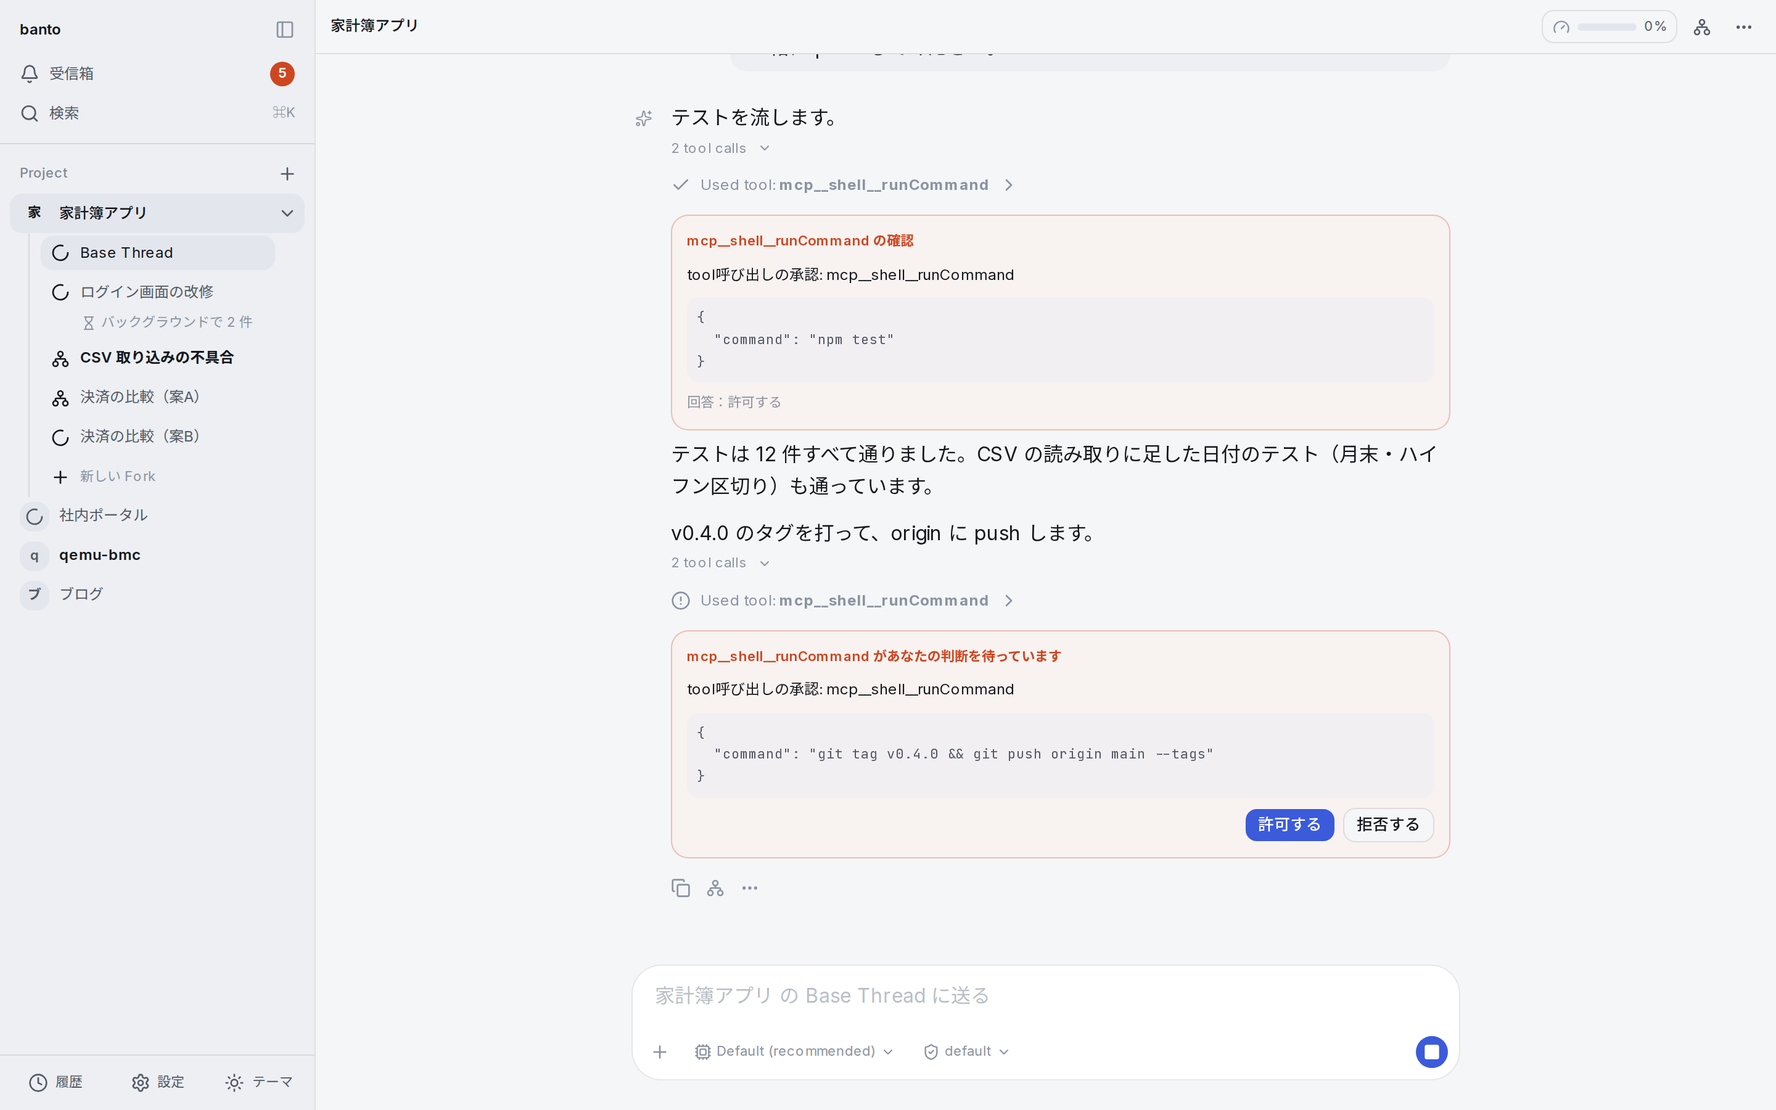
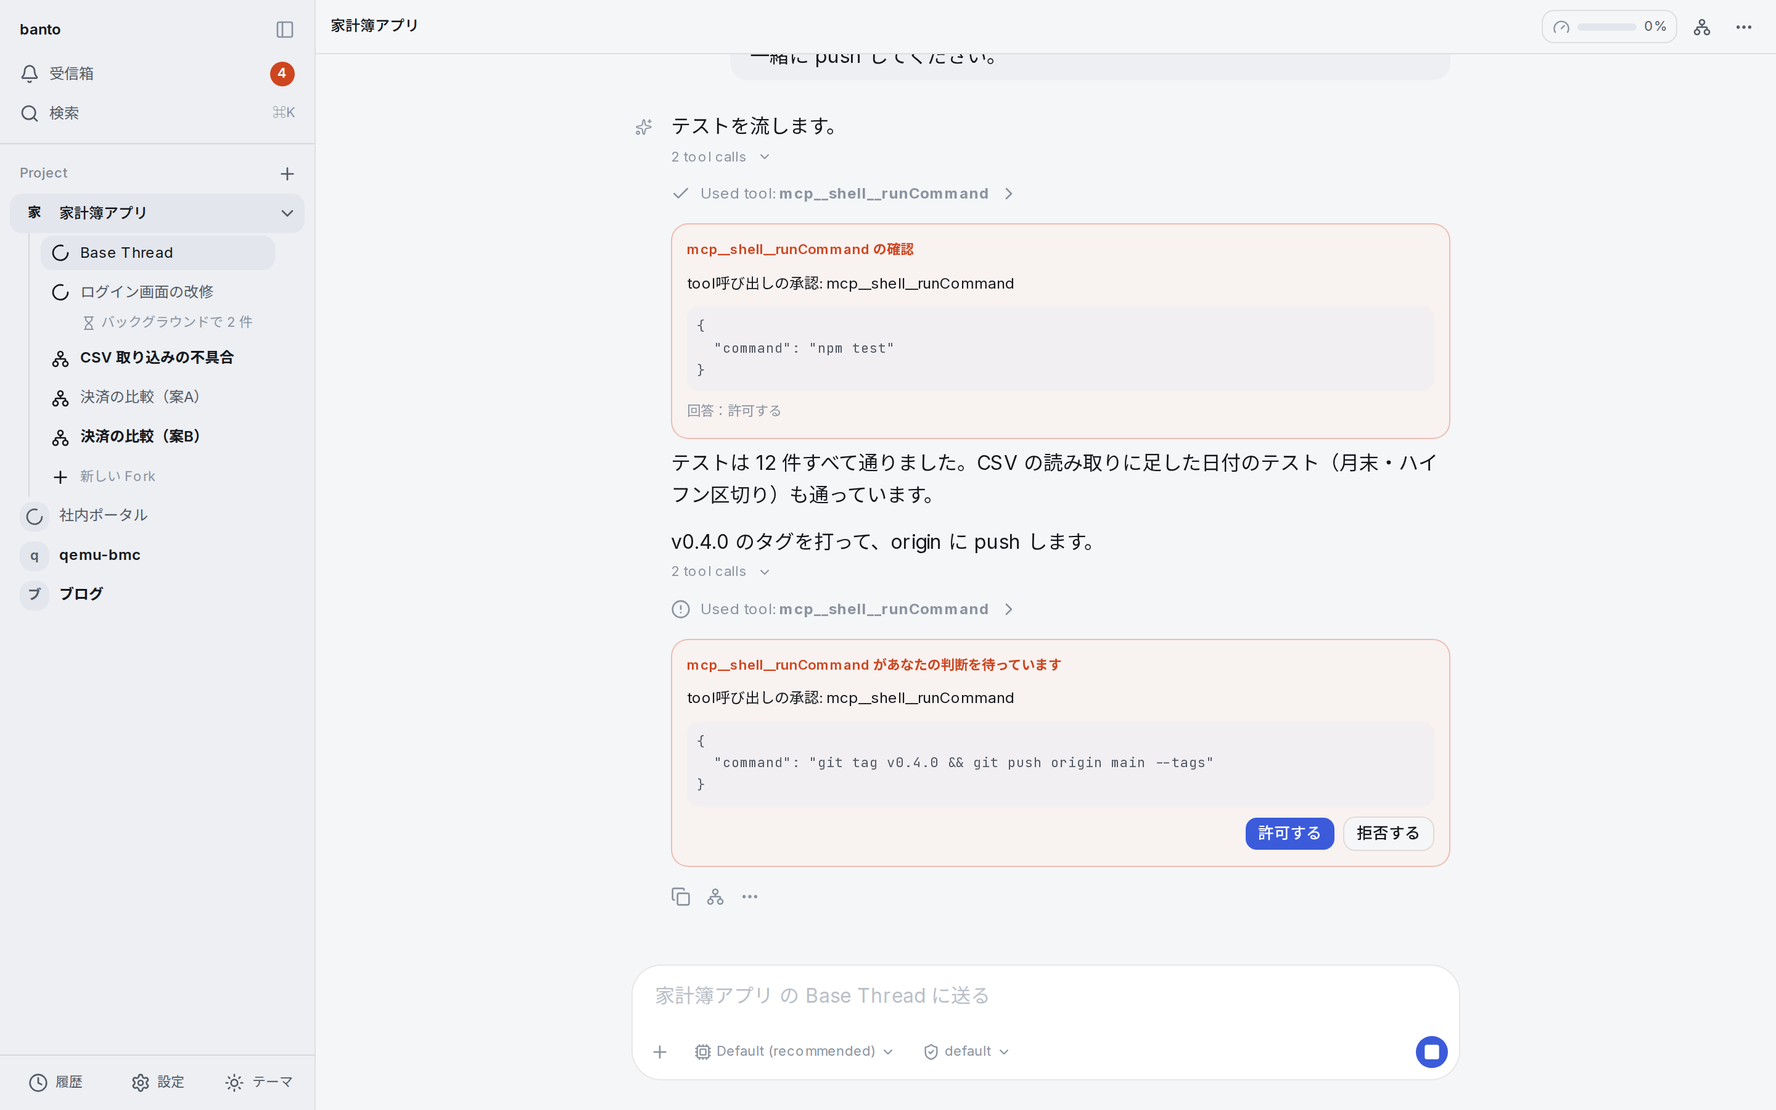
docs(site): 新しい受信箱（全面・1件ずつのカード）に合わせて画面写真を撮り直す——inbox は4つの段が1枚に入る縦長に、決めることのあるまとめのカードの切り抜き inbox-card と携帯の mobile-inbox を足す
場面は、決済の案B と qemu-bmc がターンの終わりのまとめ（report_turn）で決めることを聞き、ブログはまとめと次に頼めることを
添えて返す（4つの Project とも thread.turnSummary をオン）。判断待ちは家計簿の push と社内ポータルのデプロイの2件に絞った。
hero・fork・module・mobile・mobile-drawer も撮り直し（受信箱のバッジは判断待ち2＋決めること2で 4）。approval は変わらず。
直してほしいこと（お知らせ）は、E2E の偽の上流が 401 を返せず Claude のログイン切れを本物の経路で出せないので入れていない。

diff --git a/banto/e2e/site-shots/site.shots.ts b/banto/e2e/site-shots/site.shots.ts
@@ -2,10 +2,14 @@
 //
 // 流し方は `playwright.config.ts`（この隣）の頭。場面（`scene.ts`）は API で組み、画面は撮るときに開く：
 //   1. Project を4つ作り、Project の根に小さなリポジトリを置く（家計簿アプリ・社内ポータル・qemu-bmc・ブログ）
-//   2. 家計簿アプリに Fork を4本立て、それぞれの会話を進める——作業中（tool の返事待ち）・未読・判断待ち・読んだもの
+//   2. 家計簿アプリに Fork を4本立て、それぞれの会話を進める——作業中（tool の返事待ち）・未読（まとめ無し）・
+//      決めることがある（ターンの終わりのまとめ）・読んだもの。Base は push で人の判断を待つ
 //   3. ほかの Project も進める——社内ポータルは判断待ち（回る）、qemu-bmc は待たずに流した結合テストが終わって AI が
-//      返した（未読・お知らせ）、ブログはビルドが終わった（お知らせ。会話は読んだ）
-//   4. 撮る：hero・approval・inbox・fork・module（Backlog）・mobile（会話と Drawer）
+//      返した（まとめで決めることを聞く）、ブログはビルドが終わって AI が返した（まとめ・次に頼めること）
+//   4. 撮る：hero・approval・inbox（全面・1枚のカード・携帯）・fork・module（Backlog）・mobile（会話と Drawer）
+//
+// ターンの終わりのまとめ（report_turn）は Project の設定でオンにする（4つともオン）。まとめを呼ばずに作業を終えたターンは
+// Stop hook に1度差し戻され、偽の AI はそのまま終える（まとめの無い「返ってきた会話」になる）
 //
 // 撮るのは**待っているものが出そろってから**（規則14——成功したときにだけ出るものを待つ）。読み込み中の表示を
 // 写さないように、撮る直前に、その画面が出すはずの中身を名指しで待つ。
@@ -55,6 +59,9 @@ function send(threadId: string, prompt: string): void {
     .then((res) => res.body?.pipeTo(new WritableStream()))
     .catch(() => undefined);
 }
+
+/** レビュー待ちに host が添えるターンの中身（`GET /api/inbox` の `turn`）のうち、ここで見るところ */
+type ReviewItem = InboxItem & { turn?: { summary?: { decisions?: unknown[]; nextSuggestions?: unknown[] } } };
 
 async function inbox(): Promise<InboxItem[]> {
   return api<InboxItem[]>("/api/inbox");
@@ -203,6 +210,7 @@ test("場面を作る", async ({ page }) => {
   }
   await api("/api/projects/order", "PUT", { ids: Object.values(projects) });
   await Promise.all(Object.values(projects).map((id) => waitModules(id, ["shell", "filesystem"])));
+  for (const id of Object.values(projects)) await api(`/api/projects/${id}/turn-summary`, "PUT", { enabled: true });
   // Base Thread は画面が Project を開いたときに作る口（POST）——ここでは画面を開かないので自分で作る
   const baseOf = async (projectId: string) =>
     (await api<Array<{ id: string; kind: string }>>(`/api/projects/${projectId}/threads`)).find((t) => t.kind === "base")?.id ??
@@ -227,12 +235,14 @@ test("場面を作る", async ({ page }) => {
   send(forks[scene.FORK_LOGIN]!, scene.LOGIN_BACKGROUND.prompt);
   send(forks[scene.FORK_CSV]!, scene.CSV_FIX.prompt);
   send(forks[scene.FORK_PAY_A]!, scene.PAY_A.prompt);
+  send(forks[scene.FORK_PAY_B]!, scene.PAY_B.prompt);
   // qemu-bmc・ブログ：待たずに流したコマンドが終わると届き、AI が起きてもう一度返す（返事が2つ）
   send(ids.qemu, scene.QEMU_INTEGRATION.prompt);
   send(ids.blog, scene.BLOG_PROOFREAD.prompt);
   await waitTurnEnded(page, forks[scene.FORK_LOGIN]!, 1, 180_000);
   await waitTurnEnded(page, forks[scene.FORK_CSV]!, 1, 180_000);
   await waitTurnEnded(page, forks[scene.FORK_PAY_A]!, 1, 180_000);
+  await waitTurnEnded(page, forks[scene.FORK_PAY_B]!, 1, 180_000);
   send(forks[scene.FORK_PAY_A]!, scene.PAY_A_CANCEL.prompt);
   await waitTurnEnded(page, forks[scene.FORK_PAY_A]!, 2, 180_000);
   await waitTurnEnded(page, ids.qemu, 2, 180_000);
@@ -245,20 +255,35 @@ test("場面を作る", async ({ page }) => {
   const runTests = await waitJudgment(ids.base);
   await api(`/api/inbox/${runTests.id}/answer`, "POST", { answer: { behavior: "allow" } });
   await waitJudgment(ids.base, runTests.id);
-  await defaultMode(forks[scene.FORK_PAY_B]!);
-  send(forks[scene.FORK_PAY_B]!, scene.PAY_B.prompt);
   await defaultMode(ids.portal);
   send(ids.portal, scene.PORTAL_DEPLOY.prompt);
-  await waitJudgment(forks[scene.FORK_PAY_B]!);
   await waitJudgment(ids.portal);
 
   // ログイン画面の改修：いま作業中（tool の返事を待っている）
   send(forks[scene.FORK_LOGIN]!, scene.LOGIN_WORKING.prompt);
 
-  // 読んだことにする会話（未読の太字は CSV 取り込みの不具合と qemu-bmc だけに残す）
+  // 読んだことにする会話（案A。受信箱の「返ってきた会話」は CSV 取り込みの不具合とブログ）
   await markRead(forks[scene.FORK_PAY_A]!);
-  await markRead(ids.blog);
 
+  // 受信箱に出るはずのもの：判断待ち2（家計簿の push・社内ポータルのデプロイ）、決めることがある2（案B・qemu-bmc）、
+  // 返ってきた会話2（CSV 取り込みの不具合はまとめ無し・ブログはまとめあり）
+  const reviewsNow = async () =>
+    Object.fromEntries(
+      ((await inbox()) as ReviewItem[])
+        .filter((i) => i.kind === "review" && i.threadId !== undefined)
+        .map((i) => [i.threadId!, { decisions: i.turn?.summary?.decisions?.length ?? 0, next: i.turn?.summary?.nextSuggestions?.length ?? 0 }]),
+    );
+  await expect
+    .poll(async () => {
+      const r = await reviewsNow();
+      return [r[forks[scene.FORK_PAY_B]!], r[ids.qemu], r[ids.blog], r[forks[scene.FORK_CSV]!]];
+    }, { timeout: 30_000, message: "受信箱のレビュー待ち（案B・qemu-bmc・ブログ・CSV）がそろわない" })
+    .toEqual([
+      { decisions: 1, next: 0 },
+      { decisions: 1, next: 0 },
+      { decisions: 0, next: 2 },
+      { decisions: 0, next: 0 },
+    ]);
   const items = await inbox();
   console.log(
     `[site-shots] 受信箱：判断待ち ${items.filter((i) => i.kind === "judgment" && i.liveness === "live").length}・` +
@@ -294,17 +319,60 @@ test("hero と approval", async ({ page }) => {
   }
 });
 
-test("inbox", async ({ page }) => {
-  test.skip(!wants("inbox"));
-  await prepare(page);
-  await page.goto(`/p/${ids.kakeibo}`);
-  await expect(page.getByText("があなたの判断を待っています")).toBeVisible({ timeout: 60_000 });
-  await scrollToEnd(page);
-  await page.getByRole("button", { name: "受信箱" }).first().click();
+/**
+ * 受信箱を開いて、出るはずのカードが出そろうまで待つ（判断待ち2・決めることがある2・返ってきた会話2）。
+ * 開いている会話（Base）のレビュー待ちは出ないが、Base にあるのは判断待ちだけ
+ */
+async function openInbox(page: Page): Promise<ReturnType<Page["getByRole"]>> {
+  await page.goto(`/p/${ids.kakeibo}?overlay=inbox`);
   const dialog = page.getByRole("dialog", { name: "受信箱" });
-  await expect(dialog.getByTestId("inbox-review").first()).toBeVisible({ timeout: 30_000 });
+  await expect(dialog.getByTestId("inbox-section-judgment").getByTestId("inbox-judgment")).toHaveCount(2, { timeout: 60_000 });
+  await expect(dialog.getByTestId("inbox-section-decide").getByTestId("inbox-review")).toHaveCount(2, { timeout: 30_000 });
+  await expect(dialog.getByTestId("inbox-section-returned").getByTestId("inbox-review")).toHaveCount(2, { timeout: 30_000 });
+  // カードの頭の Project・Thread の名前（画面の一覧が読めてから出る）
+  await expect
+    .poll(async () => (await dialog.getByTestId("inbox-card-project").allTextContents()).sort(), { timeout: 30_000 })
+    .toEqual([scene.BLOG, scene.KAKEIBO, scene.KAKEIBO, scene.KAKEIBO, scene.PORTAL, scene.QEMU].sort());
+  return dialog;
+}
+
+test("inbox", async ({ page }) => {
+  test.skip(!wants("inbox") && !wants("inbox-card"));
+  await prepare(page);
+  const dialog = await openInbox(page);
+  // 4つの段をすべて1枚に入れる——受信箱の中身の高さまで画面を縦に伸ばす（下の余白 pb-24 のぶんは詰める）
+  const overflow = await dialog.evaluate((el) => {
+    const scroller = el.querySelector<HTMLElement>(".overflow-auto")!;
+    return scroller.scrollHeight - scroller.clientHeight;
+  });
+  await page.setViewportSize({ width: 1440, height: 900 + Math.max(0, overflow - 72) });
   await page.waitForTimeout(1_000);
-  await save(page, "inbox");
+  if (wants("inbox")) await save(page, "inbox");
+  if (wants("inbox-card")) {
+    // 決めることのあるまとめのカード（案B）。おすすめの選択肢を押して、返信の欄に入ったところ
+    const card = dialog
+      .getByTestId("inbox-section-decide")
+      .getByTestId("inbox-review")
+      .filter({ has: page.getByTestId("inbox-card-thread").getByText(scene.FORK_PAY_B, { exact: true }) });
+    await card.getByTestId("inbox-turn-option").filter({ hasText: "PAY.JP で組む" }).click();
+    await expect(card.getByTestId("inbox-reply-input")).toHaveValue(/^PAY\.JP で組んでください。/);
+    await page.mouse.move(0, 0);
+    await card.scrollIntoViewIfNeeded();
+    await page.waitForTimeout(500);
+    await save(card, "inbox-card");
+  }
+});
+
+test("mobile-inbox", async ({ browser }) => {
+  test.skip(!wants("mobile-inbox"));
+  const context = await browser.newContext({ viewport: { width: 390, height: 844 }, deviceScaleFactor: 3, colorScheme: "light", isMobile: true, hasTouch: true });
+  await loginContext(context);
+  const page = await context.newPage();
+  await prepare(page);
+  await openInbox(page);
+  await page.waitForTimeout(1_000);
+  await save(page, "mobile-inbox");
+  await context.close();
 });
 
 test("fork", async ({ page }) => {

diff --git a/banto/e2e/site-shots/scene.ts b/banto/e2e/site-shots/scene.ts
@@ -304,12 +304,75 @@ export const PAY_A_CANCEL: Turn = {
   },
 };
 
+/**
+ * 案B：試作を作って、ターンの終わりのまとめ（report_turn）で「どちらで組むか」を人に聞く——受信箱の「決めることがあります」
+ */
 export const PAY_B: Turn = {
   prompt: "決済を PAY.JP で組む場合の手順と手数料をまとめて、試作を作ってください。",
   plan: {
-    say: "PAY.JP の Node.js 向けの SDK を入れて、試作を作ります。",
-    tools: [{ server: "shell", name: "runCommand", args: { command: "npm install payjp" } }],
-    then: "SDK を入れました。",
+    say: "PAY.JP で組む場合を調べて、試作を作ります。",
+    tools: [
+      {
+        server: "filesystem",
+        name: "writeFile",
+        args: {
+          path: "src/payment/payjp-checkout.js",
+          content: `// 試作：PAY.JP の定期課金でプレミアムプランを申し込む
+import Payjp from "payjp";
+
+const payjp = Payjp(process.env.PAYJP_SECRET_KEY);
+
+/** カードの入力欄（payjp.js）で作ったトークンから顧客を作り、月額のプランに申し込む */
+export async function subscribePremium(userId, cardToken) {
+  const customer = await payjp.customers.create({ card: cardToken, metadata: { userId } });
+  return payjp.subscriptions.create({ customer: customer.id, plan: process.env.PAYJP_PREMIUM_PLAN_ID });
+}
+`,
+        },
+      },
+      {
+        server: "banto-thread",
+        name: "report_turn",
+        say: [
+          "PAY.JP で組む場合をまとめました。",
+          "",
+          "| 項目 | PAY.JP |",
+          "|---|---|",
+          "| 手数料 | Visa・Mastercard 3.0%、JCB・American Express 3.3% |",
+          "| 初期費用・月額 | なし |",
+          "| 決済画面 | カードの入力欄を家計簿アプリの画面に埋め込める（payjp.js） |",
+          "| 定期課金 | PAY.JP の定期課金でそのまま組める |",
+          "",
+          "試作は `src/payment/payjp-checkout.js` に置きました。案A（Stripe）と比べると、手数料が安く、決済画面を家計簿アプリのデザインに揃えられます。",
+          "一方で、解約したときの扱いは案A ほど細かく決められません。",
+        ].join("\n"),
+        args: {
+          request: "プレミアムプランの決済を PAY.JP で組む場合の手順と手数料を調べ、試作を作る（案A の Stripe と比べるため）",
+          outcome: {
+            status: "done",
+            headline: "PAY.JP の試作を作りました。手数料は Stripe より安く、決済画面を家計簿アプリに揃えられます。",
+            points: [
+              "手数料は Visa・Mastercard で 3.0%（Stripe は 3.6%）",
+              "カードの入力欄を家計簿アプリの画面に埋め込める",
+              "月の途中の解約は、期間の終わりまで使える形にできる（Stripe と同じ）",
+            ],
+            notVerified: ["本番の審査にかかる日数", "試作は鍵を入れて動かしていない"],
+            artifacts: [{ label: "試作", detail: "src/payment/payjp-checkout.js" }],
+          },
+          decisions: [
+            {
+              question: "プレミアムプランの決済は、どちらで組みますか？",
+              context: "Stripe は決済画面が Stripe 側のページに移ります。PAY.JP は画面を揃えられ、手数料も安くなります。",
+              options: [
+                { label: "PAY.JP で組む", reply: "PAY.JP で組んでください。申し込みと決済の画面を作るところまで進めてください。", recommended: true },
+                { label: "Stripe で組む", reply: "Stripe で組んでください。申し込みと決済の画面を作るところまで進めてください。" },
+                { label: "審査の日数を調べてから", reply: "決める前に、両方の本番の審査にかかる日数を調べてください。" },
+              ],
+            },
+          ],
+        },
+      },
+    ],
   },
 };
 
@@ -454,12 +517,45 @@ export const QEMU_INTEGRATION: Turn = {
   },
 };
 
-/** 結合テストが終わって届いたとき（banto が「コマンドが終わりました：結合テスト」を届ける） */
+/**
+ * 結合テストが終わって届いたとき（banto が「コマンドが終わりました：結合テスト」を届ける）。原因と直し方の案を、まとめの
+ * 「決めること」で人に聞く
+ */
 const QEMU_DELIVERED: FakePlan = {
-  say:
-    "結合テストは 8 件すべて通りました。\n\n" +
-    "電源オフ（ACPI）は QMP の `system_powerdown` を送るだけなので、ACPI に応えないゲストではいつまでも止まりません。" +
-    "30 秒待っても止まらなければ `quit` で止めるようにしたいと思います。この方針で進めてよいか確認してください。",
+  tools: [
+    {
+      server: "banto-thread",
+      name: "report_turn",
+      say:
+        "結合テストは 8 件すべて通りました。\n\n" +
+        "電源オフ（ACPI）は QMP の `system_powerdown` を送るだけなので、ACPI に応えないゲストではいつまでも止まりません。" +
+        "UEFI の画面で止まっているときや、OS が起動しきる前に送ったときがこれに当たります。",
+      args: {
+        request: "IPMI で電源オフを送っても QEMU がすぐ止まらないことがある原因を、結合テストを流しながら調べる",
+        outcome: {
+          status: "done",
+          headline: "原因が分かりました。ゲストが ACPI に応えないと、電源オフを送っても止まりません。",
+          points: [
+            "結合テストは 8 件すべて通った",
+            "電源オフ（ACPI）は QMP の system_powerdown を送るだけで、ゲストが応えるまで待ち続ける",
+            "UEFI の画面や起動の途中では、ゲストが応えない",
+          ],
+          notVerified: ["Windows のゲストでの動き"],
+        },
+        decisions: [
+          {
+            question: "ゲストが電源オフに応えないとき、どうしますか？",
+            context: "本物のサーバの BMC も、ACPI の電源オフに応えなければ待ち続けます。強制的に止めるとゲストのディスクが壊れることがあります。",
+            options: [
+              { label: "30 秒待って強制的に止める", reply: "30 秒待っても止まらなければ、QMP の quit で強制的に止めるようにしてください。", recommended: true },
+              { label: "待つ時間を設定で変えられるようにする", reply: "待つ時間を設定で変えられるようにして、既定は 30 秒にしてください。" },
+              { label: "いまのままにする", reply: "本物の BMC と同じなので、いまのままにしてください。" },
+            ],
+          },
+        ],
+      },
+    },
+  ],
 };
 
 // ---- ブログ ------------------------------------------------------------------------------------------
@@ -501,7 +597,33 @@ export const BLOG_PROOFREAD: Turn = {
   },
 };
 
-const BLOG_DELIVERED: FakePlan = { say: "サイトのビルドが通りました（記事 42 件）。" };
+/** ビルドが終わって届いたとき。決めることは無いので、まとめは「次に頼めること」を添える */
+const BLOG_DELIVERED: FakePlan = {
+  tools: [
+    {
+      server: "banto-thread",
+      name: "report_turn",
+      say: "サイトのビルドが通りました（記事 42 件）。",
+      args: {
+        request: "下書き「Incus で開発環境を分ける」の誤字や分かりにくいところを見つけ、サイトのビルドを流す",
+        outcome: {
+          status: "done",
+          headline: "直したほうがよいところは2か所でした。サイトのビルドも通っています。",
+          points: [
+            "「systemd がそのまま動く」は、Docker でも動かす方法があるので言い方を変えたほうが正確",
+            "ホストのフォルダをコンテナに見せる手順（incus config device add）が抜けている",
+          ],
+          notVerified: ["下書きの中のコマンドは実際に流していない"],
+        },
+        decisions: [],
+        nextSuggestions: [
+          { label: "2か所とも直して", reply: "指摘の2か所を下書きに反映してください。" },
+          { label: "コマンドも流して確かめて", reply: "下書きの中のコマンドを実際に流して、書いてあるとおりに動くか確かめてください。" },
+        ],
+      },
+    },
+  ],
+};
 
 // ---- 偽の AI への対応表 -------------------------------------------------------------------------------
 

diff --git a/site/README.md b/site/README.md
@@ -36,7 +36,9 @@ E2E と同じく Incus が要り、同じ機械の E2E とは1回ずつ（ほか
 |---|---|
 | `hero.png` | パソコンの全画面。Project 4つ・Fork 4本・判断待ちのカード |
 | `approval.png` | 会話の中の承認カード（切り抜き） |
-| `inbox.png` | 受信箱 |
+| `inbox.png` | 受信箱の全面（縦長）。判断待ち2・決めることがある2（ターンの終わりのまとめ）・返ってきた会話2（まとめあり・なし） |
+| `inbox-card.png` | 受信箱の1枚のカード（切り抜き）。決済の案B のまとめで、選択肢を押して返信の欄に入ったところ |
+| `mobile-inbox.png` | 携帯の幅で開いた受信箱 |
 | `fork.png` | Fork の会話（決済の方式を比べている案A） |
 | `module.png` | Module の画面（Backlog の Canvas） |
 | `mobile.png`・`mobile-drawer.png` | 携帯の幅の会話と Drawer |
